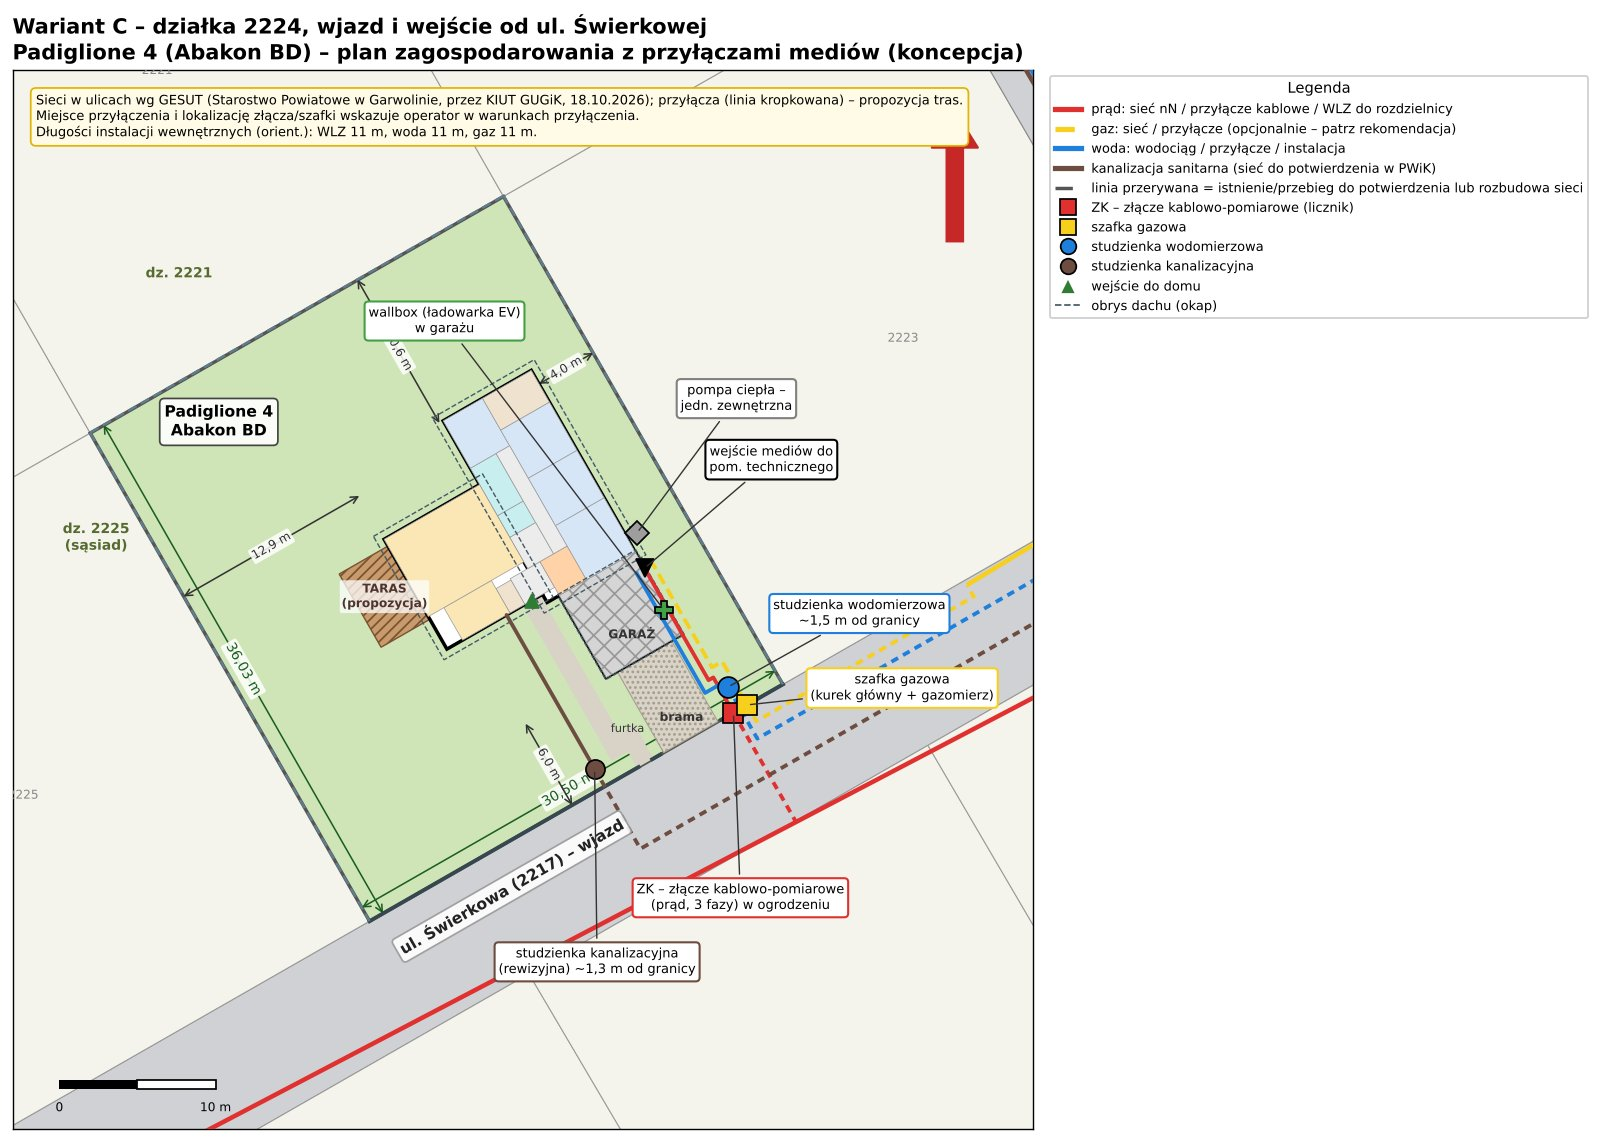
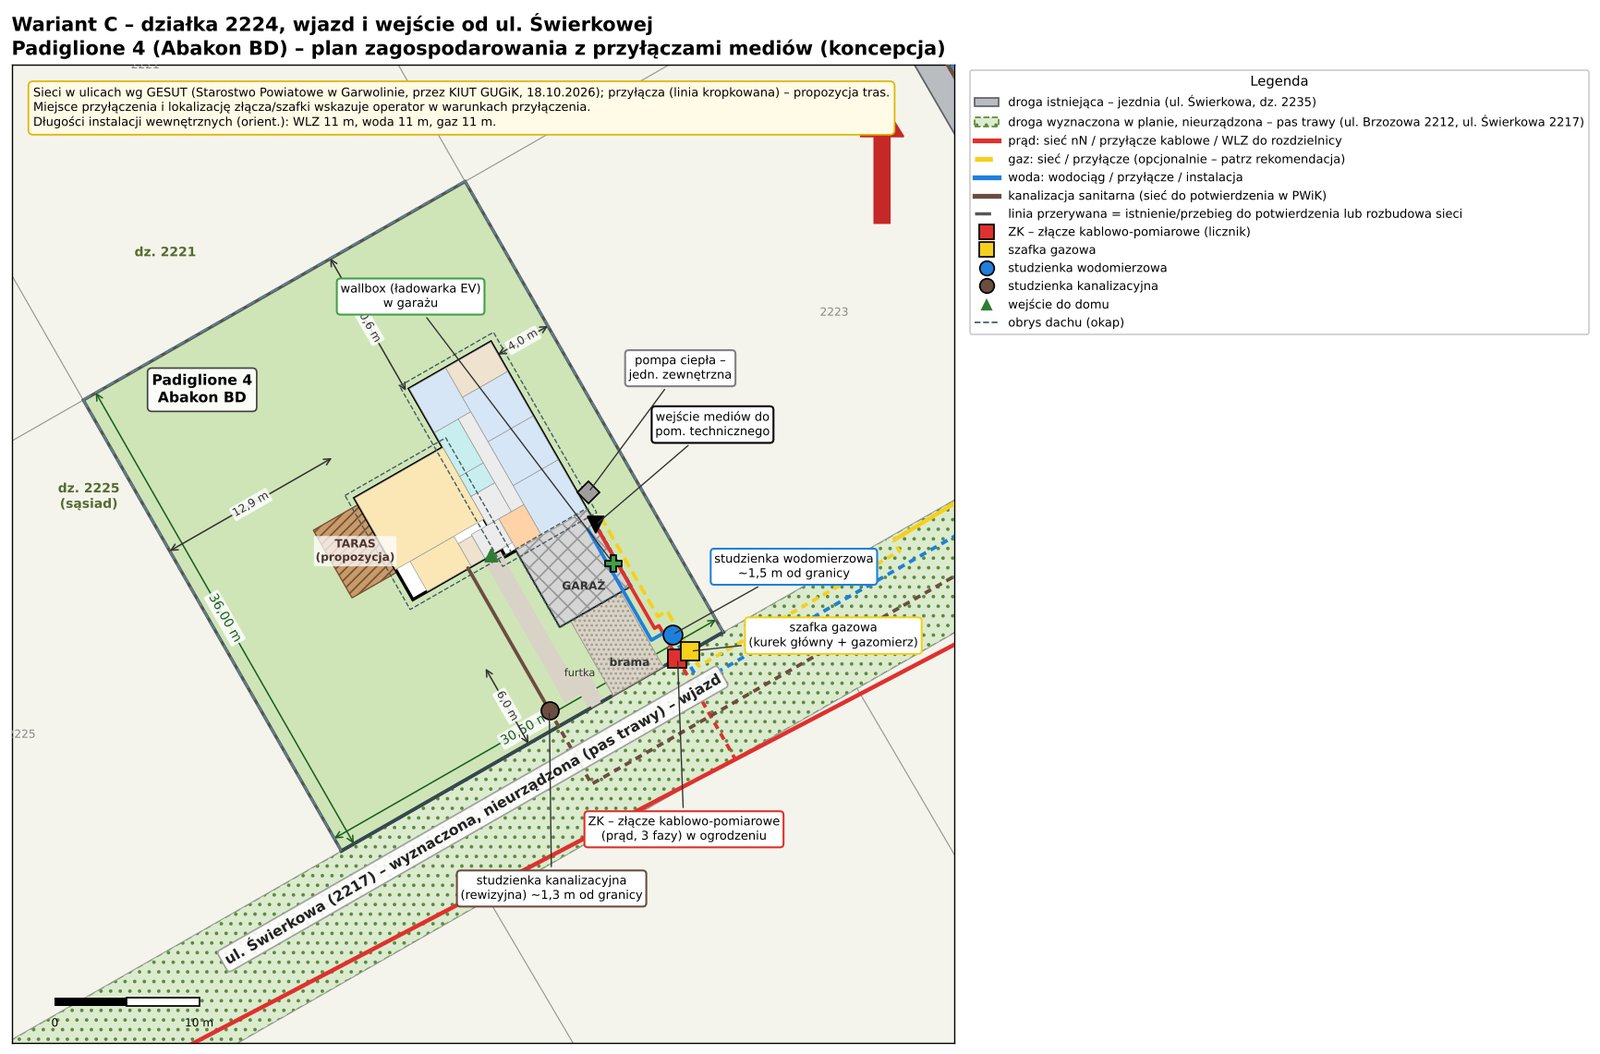
Mapy i plany: drogi istniejące vs wyznaczone (pas trawy) z legendą
Claude-Session: https://claude.ai/code/session_01Di4FdYcmquZcsc6YQwvnck

diff --git a/index.html b/index.html
@@ -258,7 +258,7 @@ header.hero .lead{font-size:1.1rem;max-width:none;color:var(--ink)}
 <dt>Sieci</dt><dd>prąd w ulicy przy działce (ok. 7 m); gaz 21–27 m; woda 41–49 m; kanalizacja 28–36 m</dd>
 <dt>Teren</dt><dd>143,99–144,44 m n.p.m.; proponowane ±0,00 domu 144,90–145,00</dd>
 <dt>Współrzędne</dt><dd>51°52′50,7″N 21°37′59,4″E</dd></dl>
-<div class="act"><button type="button" data-goto="2224">Zakładka działki 2224</button><a href="https://mapy.geoportal.gov.pl/imap/Imgp_2.html?identifyParcel=140301_1.0001.2224" target="_blank" rel="noopener">Geoportal ↗</a></div></article></div><figure class="wide"><button type="button" class="zoom" data-src="img/locator.jpg" aria-label="Powiększ mapę położenia"><img src="img/locator.jpg" alt="Położenie działek 2221 i 2224 w Garwolinie na ortofotomapie: widok miasta i zbliżenie z ulicami Brzozową i Świerkową"></button><figcaption>Lewa mapa: położenie w Garwolinie (pas 2 × 2 km). Prawa: zbliżenie – zielona działka 2221 z wjazdem od ul. Brzozowej, niebieska 2224 z wjazdem od ul. Świerkowej. Ortofotomapa i nazwy ulic: Geoportal GUGiK, granice działek: ULDK GUGiK.</figcaption></figure>
+<div class="act"><button type="button" data-goto="2224">Zakładka działki 2224</button><a href="https://mapy.geoportal.gov.pl/imap/Imgp_2.html?identifyParcel=140301_1.0001.2224" target="_blank" rel="noopener">Geoportal ↗</a></div></article></div><figure class="wide"><button type="button" class="zoom" data-src="img/locator.jpg" aria-label="Powiększ mapę położenia"><img src="img/locator.jpg" alt="Położenie działek 2221 i 2224 w Garwolinie na ortofotomapie: widok miasta i zbliżenie z ulicami Brzozową i Świerkową"></button><figcaption>Lewa mapa: położenie w Garwolinie (pas 2 × 2 km). Prawa: zbliżenie – zielona działka 2221 z wjazdem od ul. Brzozowej, niebieska 2224 z wjazdem od ul. Świerkowej. Pomarańczowe linie to osie ulic z rejestru adresowego – nie oznaczają, że ulica jest urządzona: przy obu działkach ul. Brzozowa i ul. Świerkowa (2217) to pasy trawy, a jezdnię ma tylko ul. Świerkowa (2235). Ortofotomapa i nazwy ulic: Geoportal GUGiK, granice działek: ULDK GUGiK.</figcaption></figure>
 </header><section class="tab" id="tab-wspolne" data-tab="wspolne"><nav class="subnav" aria-label="Sekcje przeglądu"><div class="in"><a href="#mpzp" data-jump="mpzp">Plan miejscowy</a><a href="#c-zgod" data-jump="c-zgod">Zgodność domów z planem</a><a href="#c-porownanie" data-jump="c-porownanie">Porównanie działek</a><a href="#c-media-por" data-jump="c-media-por">Media przy działkach</a><a href="#skroty" data-jump="skroty">Skróty</a><a href="#c-slonce" data-jump="c-slonce">Słońce – zasady</a><a href="#c-domy" data-jump="c-domy">Domy</a><a href="#c-media" data-jump="c-media">Media</a><a href="#gesut" data-jump="gesut">Przyłącza wg GESUT</a><a href="#moc" data-jump="moc">Moc i bezpiecznik</a><a href="#jak" data-jump="jak">Wnioski PGE/PWiK/PSG</a><a href="#pge-form" data-jump="pge-form">Wniosek PGE krok po kroku</a><a href="#zalozenia" data-jump="zalozenia">Założenia</a><a href="#zrodla" data-jump="zrodla">Źródła</a></div></nav><div class="col"><div class="call bad" id="mpzp"><strong>Plan miejscowy obowiązuje – i ogranicza wybór domu</strong>
 <p>Obie działki leżą w miejscowym planie zagospodarowania przestrzennego (MPZP) nr 007 – uchwała Rady Miasta Garwolina nr XXXII/193/2005 z 24.05.2005 (Dz. Urz. Woj. Maz. 2005 nr 148, poz. 4617), w terenie <b>MN,U-2</b> (zabudowa mieszkaniowa jednorodzinna z usługami). Sprawdziłem to w Krajowej Integracji Miejscowych Planów Zagospodarowania Przestrzennego (GUGiK) i na rysunku planu. Najważniejsze ustalenia z tekstu uchwały (§ 7 ust. 3):</p>
 <ul>
